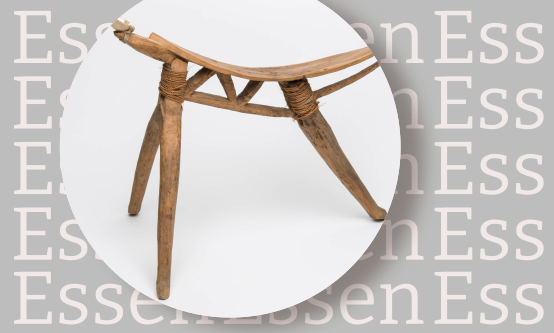
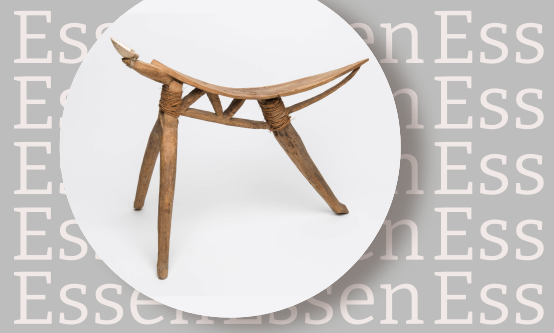
safe mobile views

Changed region(s): [[0.1841, 0.0601, 0.7058, 0.9009]]

diff --git a/plated/source/^.css b/plated/source/^.css
@@ -4,6 +4,7 @@
 
 @import url('https://fonts.googleapis.com/css2?family=Bitter:ital,wght@0,300;0,400;0,700;1,300&display=swap');  /*https://fonts.google.com/specimen/Bitter*/
 
+html    {font-size:18px;}
 body	{background:#ffefef; font-family:'Bitter',serif; font-size:18px; font-weight:400; line-height:normal; color:#111; max-width:100%; overflow-x:hidden; padding:0; margin:0;}
 h1		{font-size:2.2em; font-weight:700; color:#736b62;}
 h2		{font-size:1.5em; font-weight:normal;}
@@ -68,6 +69,7 @@ a		{color:#111; text-decoration:none; transition:all 0.5s ease-out;}
 .post_link_text:hover,
 .post_link_text:focus{background-color:#33682f; box-shadow:0px 0px #111; transform:translateY(0.20em);}
 .img_text       {padding:5px 10px; background-color:#fff; font-size:16px; line-height:20px; position:absolute; bottom:0;}
+.img_text span  {display:block; font-size:15px; font-weight:300;}
 
 .comment_list_wrap{display:flex; flex-flow:wrap; justify-content:space-around; margin-top:60px; width:90%; margin-left:auto; margin-right:auto;}
 .comment_wrap   {width:calc(50% - 30px); margin-bottom:30px;}
@@ -97,7 +99,7 @@ a		{color:#111; text-decoration:none; transition:all 0.5s ease-out;}
 .blog.box1 .img {height:250px;}
 .blog.box1      {justify-content:space-between; height:100%;}
 .blog.box2      {align-items:center; height:100%;}
-.text_wrap      {padding:20px 35px;}
+.text_wrap      {padding:20px 35px; width:100%;}
 .type           {font-size:22px; font-style:italic; font-weight:300;}
 .text           {font-size:42px; letter-spacing:-2px; line-height:46px; margin-top:10px;}
 .text span      {display:block; font-size:28px; line-height:32px; padding-top:10px;}
@@ -110,7 +112,59 @@ a		{color:#111; text-decoration:none; transition:all 0.5s ease-out;}
 .cc_wrap        {margin-top:30px; border-top:1px solid #918170; padding:20px 0 40px 0;}
 .cc_text        {font-size:16px;}
 .cc_text a      {color:#736b62;}
+a.cc_link       {display:inline-block;}
 .code           {font-size:16px;}
 .support        {display:flex; align-items:center; font-size:16px;}
 .support img    {width:40px; padding-left:10px;}
 
+
+
+@media (min-width: 360px) and (max-width: 767.98px) {
+html            {font-size:18px;}
+body            {padding:0.5em 2.0em; font-size:1.0rem;}
+.nav_content    {display:none;}
+.main_content   {padding-top:0;}
+.type,
+.more,
+.comment_text,
+.about_text     {font-size:1.0rem; line-height:inherit;}
+h1, h2,
+.comment_name,
+.text           {font-size:1.5rem; line-height:inherit;}
+.box2 .type     {height:20px;}
+.question       {width:100%;}
+.post_link_text,
+.post_text,
+.post_name      {font-size:1.4rem; line-height:inherit;}
+.blog .img,
+.blog.box1 .img {height:150px;}
+.current .blog .img,
+.current .blog.box1 .img {height:300px;}
+.comment_list_wrap,
+.current .blog,
+.info_wrap      {width:100%; flex-flow:column;}
+.item_text      {font-size:0.8rem;}
+.comment_wrap:nth-of-type(2n)   {margin:initial; margin-bottom:30px;}
+.comment_wrap   {width:100%;}
+.post_link_wrap {min-width:initial;}
+.post_wrap      {width:100%; margin-top:40px;}
+.post_foot_wrap {align-items:flex-start;}
+.post_info      {margin-top:20px;padding-right:20px; padding-left:0;}
+.cc_wrap        {display:block;}
+.cc_text,
+.support,
+.code           {margin-bottom:20px;}
+}
+
+
+@media (min-width: 768px) and (max-width: 991.98px) {
+body            {padding:0.5em 2.0em; font-size:1.0rem;}
+.nav_content    {padding:0;}
+a.cc_link       {display:block;}
+.cc_wrap        {align-items:baseline;}
+.cc_wrap > div  {font-size:0.8em;}
+.comment_list_wrap      {width:100%;}
+.info_wrap      {width:100%; flex-flow:wrap;}
+.post_foot_wrap {align-items:flex-start;}
+.post_info      {margin-top:20px;padding-right:20px; padding-left:0;}
+}

diff --git a/plated/source/^.html b/plated/source/^.html
@@ -3,7 +3,7 @@
 #^html trim=ends
 <!DOCTYPE html>
 <html>
-<head>{head}</head>
+<head><meta charset="utf-8"><meta name="viewport" content="width=device-width, initial-scale=1">{head}</head>
 <body>{body}</body>
 </html>
 
@@ -88,8 +88,8 @@ Body is missing.
             </div>
         </div>
         <div class="cc_wrap">
-            <div class="cc_text"> <p xmlns:cc="http://creativecommons.org/ns#" xmlns:dct="http://purl.org/dc/terms/"><a property="dct:title" rel="cc:attributionURL" href="https://lisahilli.com/2022/05/11/who-has-the-burden-of-sense-making">Tok Stori</a> by <a rel="cc:attributionURL dct:creator" property="cc:attributionName" href="https://lisahilli.com/">Lisa Hilli</a> is licensed under <a href="http://creativecommons.org/licenses/by-nc-nd/4.0/?ref=chooser-v1" target="_blank" rel="license noopener noreferrer" style="display:inline-block;">CC BY-NC-ND 4.0<img style="height:22px!important;margin-left:3px;vertical-align:text-bottom;" src="https://mirrors.creativecommons.org/presskit/icons/cc.svg?ref=chooser-v1"><img style="height:22px!important;margin-left:3px;vertical-align:text-bottom;" src="https://mirrors.creativecommons.org/presskit/icons/by.svg?ref=chooser-v1"><img style="height:22px!important;margin-left:3px;vertical-align:text-bottom;" src="https://mirrors.creativecommons.org/presskit/icons/nc.svg?ref=chooser-v1"><img style="height:22px!important;margin-left:3px;vertical-align:text-bottom;" src="https://mirrors.creativecommons.org/presskit/icons/nd.svg?ref=chooser-v1"></a></p> </div>
-            <div class="code">Code by shi Blank</div>
+            <div class="cc_text"> <p xmlns:cc="http://creativecommons.org/ns#" xmlns:dct="http://purl.org/dc/terms/"><a property="dct:title" rel="cc:attributionURL" href="https://lisahilli.com/2022/05/11/who-has-the-burden-of-sense-making">Tok Stori</a> by <a rel="cc:attributionURL dct:creator" property="cc:attributionName" href="https://lisahilli.com/">Lisa Hilli</a> is licensed under <a href="http://creativecommons.org/licenses/by-nc-nd/4.0/?ref=chooser-v1" target="_blank" rel="license noopener noreferrer" class="cc_link">CC BY-NC-ND 4.0<img style="height:22px!important;margin-left:3px;vertical-align:text-bottom;" src="https://mirrors.creativecommons.org/presskit/icons/cc.svg?ref=chooser-v1"><img style="height:22px!important;margin-left:3px;vertical-align:text-bottom;" src="https://mirrors.creativecommons.org/presskit/icons/by.svg?ref=chooser-v1"><img style="height:22px!important;margin-left:3px;vertical-align:text-bottom;" src="https://mirrors.creativecommons.org/presskit/icons/nc.svg?ref=chooser-v1"><img style="height:22px!important;margin-left:3px;vertical-align:text-bottom;" src="https://mirrors.creativecommons.org/presskit/icons/nd.svg?ref=chooser-v1"></a></p> </div>
+            <div class="code">Design &amp; code by shi Blank</div>
             <div class="support">Supported by <span role="img" aria-label="A bright red log with thick white letters, U and M"><img src="{_root}data/logo_ubersee.svg"/></span></div>
             <div class="top"><a href="#">Back up</a></div>
         </div>

diff --git a/plated/source/eq4.^.html b/plated/source/eq4.^.html
@@ -24,7 +24,7 @@ Tok Stori
                     </div>
                     <div class="img">
                         <span role="img" aria-label="The coconut scraper is a three legged contraption made of wood with a curved top for sitting on and a seashell attached by rope at the tip"></span>
-                        <div class="img_text">Coconut scrapper | CC BY-SA 4.0 Übersee-Museum Bremen</div>
+                        <div class="img_text">D07600 Papua New Guinea Coconut scraper, Manus Province<span>CC BY-SA 4.0 Übersee-Museum Bremen</span></div>
                     </div>
                 </div>
             </div>
